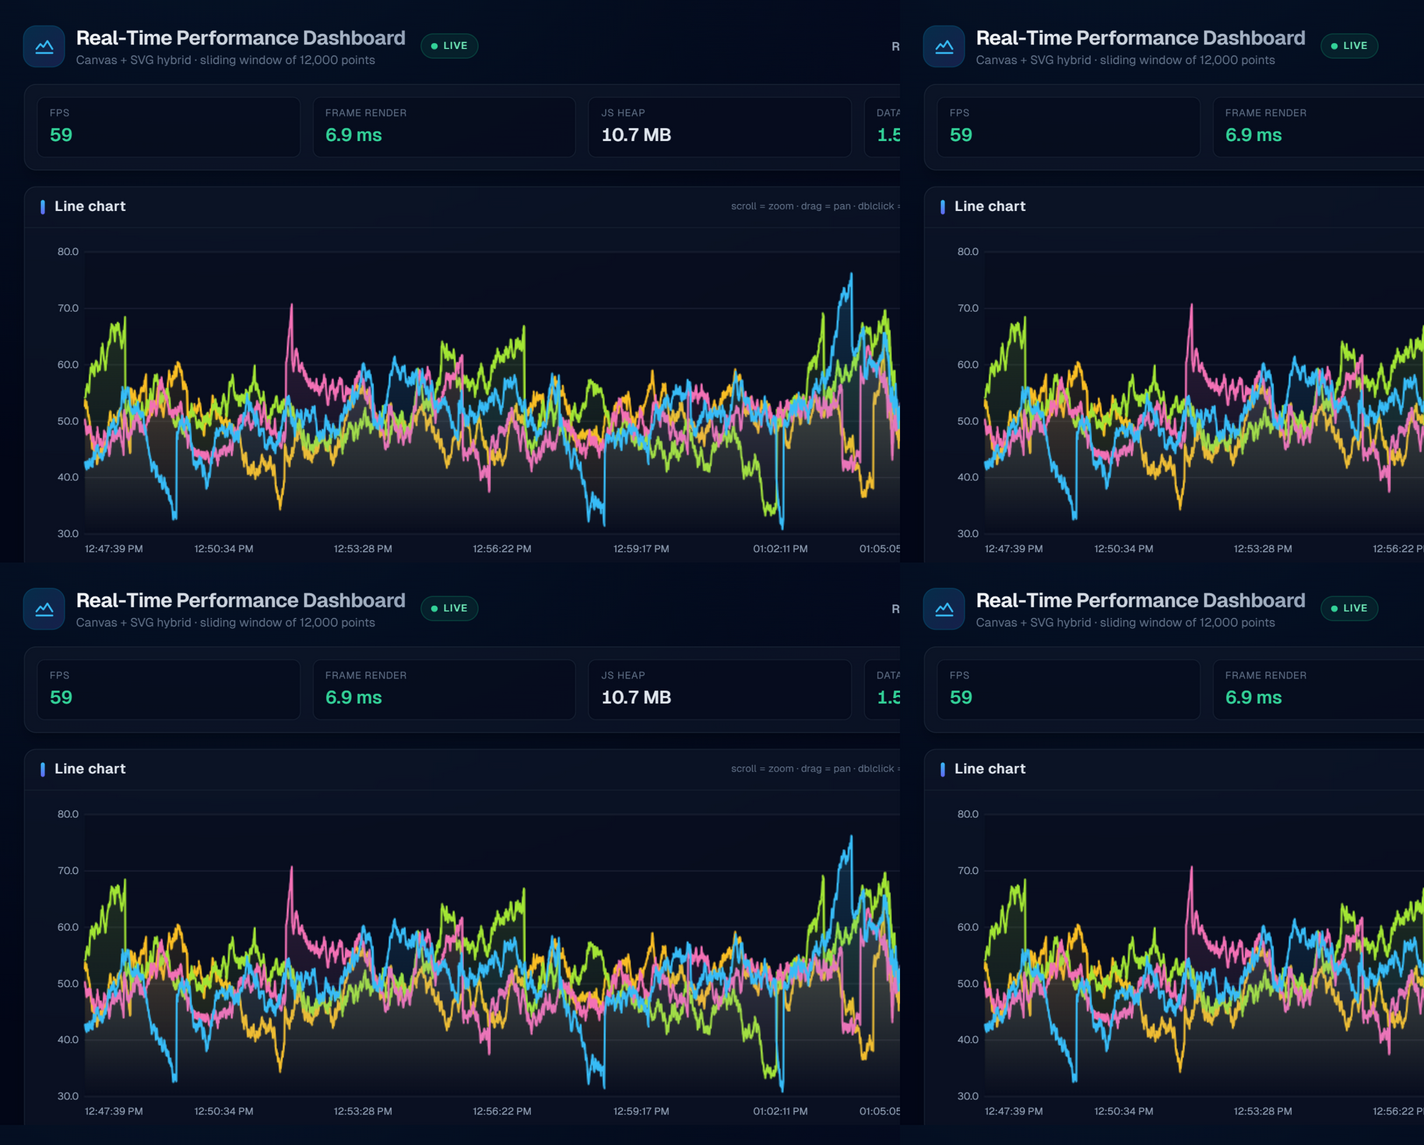
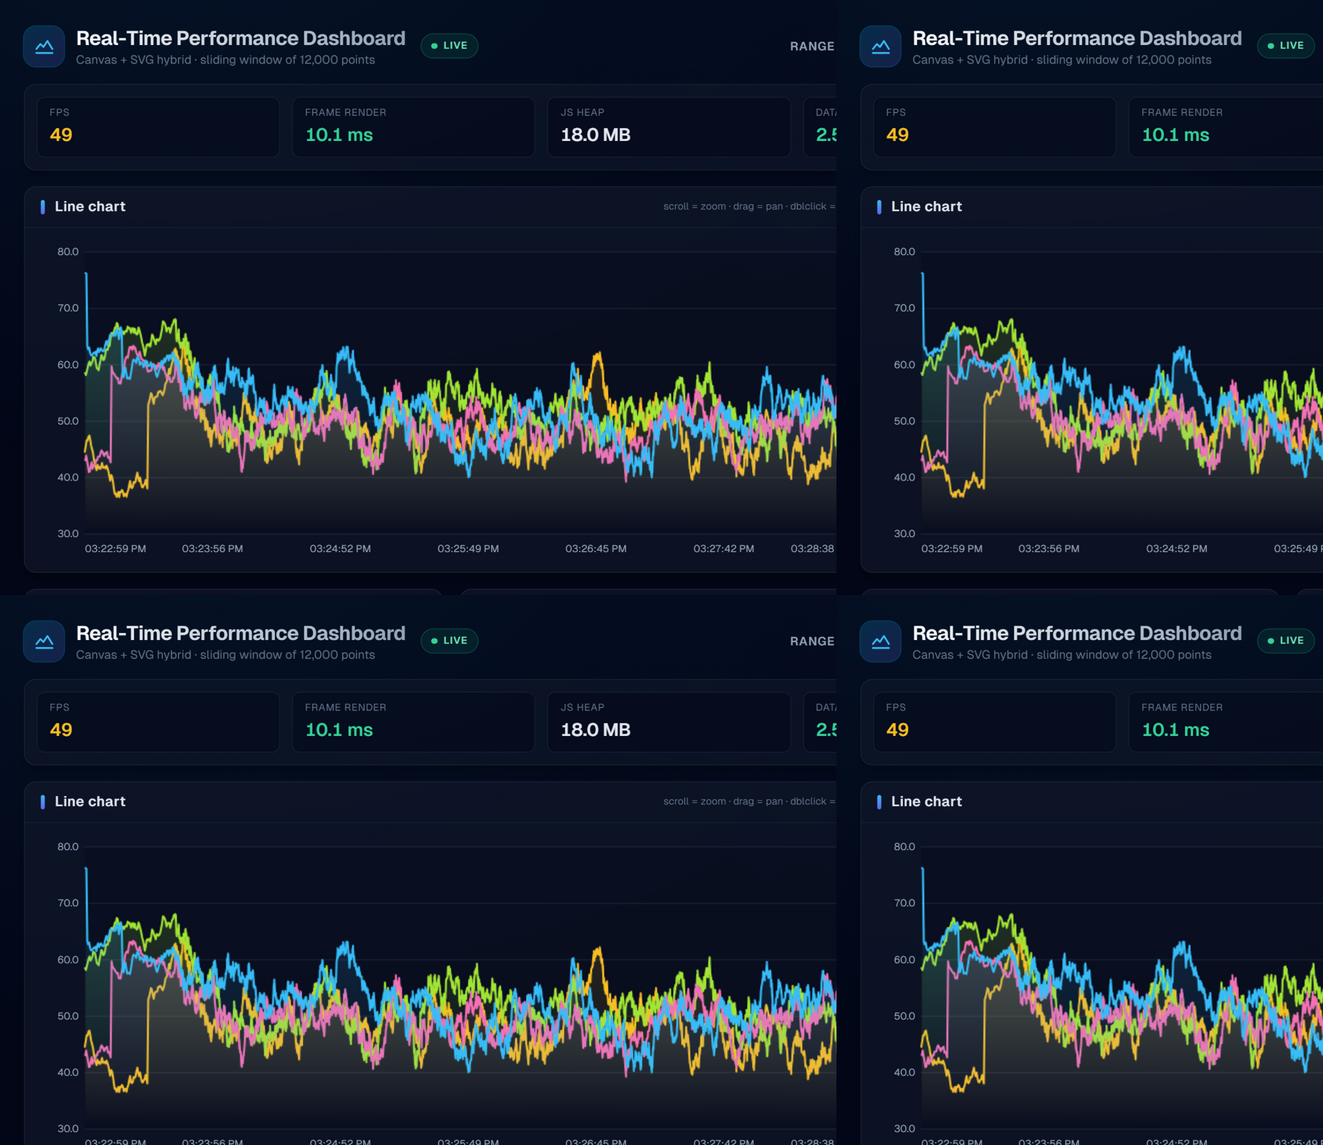
feat(ui): colorful multi-stop heatmap colormap
- intensity ramp: deep navy -> blue -> teal -> green -> yellow -> red
- canvas cells and SVG legend share the same stop table so they stay in sync
- perf fixes from the FPS investigation: drop backdrop-blur and the 60fps
  badge ping animation (main-thread repaint killers on non-GPU machines),
  guarantee a single rAF loop in scheduleFrame, merge the line chart's
  category-split and extent passes into one O(window) scan

diff --git a/components/charts/Heatmap.tsx b/components/charts/Heatmap.tsx
@@ -10,9 +10,40 @@ import { MARGIN } from './chartTheme';
 
 const BUCKETS = 80;
 
+/**
+ * Multi-stop color ramp for value density (low -> high):
+ * deep navy -> blue -> teal -> green -> yellow -> red.
+ * Stops are shared by the canvas cells and the SVG legend.
+ */
+const HEAT_STOPS: Array<[number, number, number, number]> = [
+  [0.0, 11, 26, 58],
+  [0.2, 30, 100, 220],
+  [0.4, 0, 210, 195],
+  [0.6, 110, 230, 90],
+  [0.8, 255, 200, 70],
+  [1.0, 255, 80, 80],
+];
+
+function heatColor(t: number): string {
+  const x = Math.min(1, Math.max(0, t));
+  for (let i = 1; i < HEAT_STOPS.length; i++) {
+    const [t1, r1, g1, b1] = HEAT_STOPS[i];
+    const [t0, r0, g0, b0] = HEAT_STOPS[i - 1];
+    if (x <= t1) {
+      const f = (x - t0) / (t1 - t0);
+      const r = Math.round(r0 + f * (r1 - r0));
+      const g = Math.round(g0 + f * (g1 - g0));
+      const b = Math.round(b0 + f * (b1 - b0));
+      return `rgb(${r},${g},${b})`;
+    }
+  }
+  return 'rgb(255,80,80)';
+}
+
 /** Value density heat: time (x) × category (y), intensity = avg value. */
 export default function Heatmap() {
   const { rangeData } = useDataWindow();
+
   const [containerRef, size] = useElementSize<HTMLDivElement>();
 
   const grid = useMemo(() => {
@@ -42,30 +73,23 @@ export default function Heatmap() {
     return m;
   }, [grid]);
 
-  const { canvasRef } = useChartRenderer(
-    ({ ctx, width, height }) => {
-      const left = MARGIN.left;
-      const right = width - MARGIN.right;
-      const top = MARGIN.top;
-      const bottom = height - MARGIN.bottom;
-      const cellW = (right - left) / BUCKETS;
-      const cellH = (bottom - top) / CATEGORIES.length;
+  const { canvasRef } = useChartRenderer(({ ctx, width, height }) => {
+    const left = MARGIN.left;
+    const right = width - MARGIN.right;
+    const top = MARGIN.top;
+    const bottom = height - MARGIN.bottom;
+    const cellW = (right - left) / BUCKETS;
+    const cellH = (bottom - top) / CATEGORIES.length;
 
-      for (let b = 0; b < BUCKETS; b++) {
-        for (let c = 0; c < CATEGORIES.length; c++) {
-          const cell = grid.cells[b][c];
-          const intensity = cell.n === 0 ? 0 : cell.v / cell.n / maxAvg;
-          // dark slate -> cyan ramp
-          const r = Math.round(15 + intensity * 56);
-          const g = Math.round(23 + intensity * 189);
-          const bl = Math.round(42 + intensity * 248);
-          ctx.fillStyle = `rgb(${r},${g},${bl})`;
-          ctx.fillRect(left + b * cellW, top + c * cellH, Math.ceil(cellW), Math.ceil(cellH) - 1);
-        }
+    for (let b = 0; b < BUCKETS; b++) {
+      for (let c = 0; c < CATEGORIES.length; c++) {
+        const cell = grid.cells[b]?.[c];
+        const intensity = !cell || cell.n === 0 ? 0 : cell.v / cell.n / maxAvg;
+        ctx.fillStyle = heatColor(intensity);
+        ctx.fillRect(left + b * cellW, top + c * cellH, Math.ceil(cellW), Math.ceil(cellH) - 1);
       }
-    },
-
-  );
+    }
+  });
 
   const plotH = Math.max(1, size.height - MARGIN.top - MARGIN.bottom);
   const rowH = plotH / CATEGORIES.length;
@@ -91,8 +115,9 @@ export default function Heatmap() {
           <>
             <defs>
               <linearGradient id="heatLegend" x1="0" y1="0" x2="1" y2="0">
-                <stop offset="0%" stopColor="rgb(15,23,42)" />
-                <stop offset="100%" stopColor="rgb(71,212,255)" />
+                {HEAT_STOPS.map(([t, r, g, b]) => (
+                  <stop key={t} offset={`${t * 100}%`} stopColor={`rgb(${r},${g},${b})`} />
+                ))}
               </linearGradient>
             </defs>
             {/* intensity legend */}

diff --git a/components/DashboardShell.tsx b/components/DashboardShell.tsx
@@ -15,7 +15,7 @@ import PerformanceMonitor from '@/components/ui/PerformanceMonitor';
 
 function Panel({ title, hint, children }: { title: string; hint?: string; children: React.ReactNode }) {
   return (
-    <section className="flex min-h-0 flex-col overflow-hidden rounded-xl border border-slate-800/80 bg-slate-900/60 shadow-lg shadow-black/20 backdrop-blur transition-colors hover:border-slate-700/80">
+    <section className="flex min-h-0 flex-col overflow-hidden rounded-xl border border-slate-800/80 bg-slate-900/70 shadow-lg shadow-black/20 transition-colors hover:border-slate-700/80">
       <header className="flex items-center gap-2.5 border-b border-slate-800/60 px-4 py-2.5">
         <span className="h-3.5 w-1 rounded-full bg-gradient-to-b from-sky-400 to-indigo-500" aria-hidden />
         <h2 className="text-sm font-semibold tracking-wide text-slate-200">{title}</h2>
@@ -75,10 +75,9 @@ export default function DashboardShell() {
                     : 'bg-amber-500/10 text-amber-300 ring-amber-500/30'
               }`}
             >
-              <span className="relative flex h-1.5 w-1.5">
-                {running && !stress && <span className="absolute inline-flex h-full w-full animate-ping rounded-full bg-emerald-400 opacity-60" />}
-                <span className={`relative inline-flex h-1.5 w-1.5 rounded-full ${stress ? 'bg-rose-400' : running ? 'bg-emerald-400' : 'bg-amber-400'}`} />
-              </span>
+              <span
+                className={`inline-flex h-1.5 w-1.5 rounded-full ${stress ? 'bg-rose-400' : running ? 'bg-emerald-400' : 'bg-amber-400'}`}
+              />
               {stress ? 'stress' : running ? 'live' : 'paused'}
             </span>
           </div>

diff --git a/components/charts/LineChart.tsx b/components/charts/LineChart.tsx
@@ -24,33 +24,28 @@ export default function LineChart() {
     return [plotData[0].timestamp, plotData[plotData.length - 1].timestamp];
   }, [viewport, plotData]);
 
-  const dataByCategory = useMemo(() => {
+  // single O(window) pass per data tick: category split + value extents
+  const windowed = useMemo(() => {
     const i0 = Math.max(0, findIndexBefore(plotData, t0));
     const i1 = findIndexBefore(plotData, t1);
     const by = new Map<string, DataPoint[]>();
+    let min = Infinity;
+    let max = -Infinity;
     // index-bounded scan — no slice copy of the (possibly 100k-point) window
     for (let i = i0; i <= i1; i++) {
       const p = plotData[i];
       let arr = by.get(p.category);
       if (!arr) by.set(p.category, (arr = []));
       arr.push(p);
+      if (p.value < min) min = p.value;
+      if (p.value > max) max = p.value;
     }
-    return by;
+    return { by, min: min === Infinity ? 0 : min, max: max === Infinity ? 1 : max };
   }, [plotData, t0, t1]);
 
-  const [vMin, vMax] = useMemo(() => {
-    let min = Infinity;
-    let max = -Infinity;
-    for (const arr of dataByCategory.values()) {
-      for (const p of arr) {
-        if (p.value < min) min = p.value;
-        if (p.value > max) max = p.value;
-      }
-    }
-    return min === Infinity ? ([0, 1] as const) : ([min, max] as const);
-  }, [dataByCategory]);
+  const dataByCategory = windowed.by;
 
-  const yTicks = useMemo(() => niceTicks(vMin, vMax, 5), [vMin, vMax]);
+  const yTicks = useMemo(() => niceTicks(windowed.min, windowed.max, 5), [windowed]);
   const xTicks = useMemo(() => {
     const n = 6;
     return Array.from({ length: n + 1 }, (_, i) => t0 + ((t1 - t0) * i) / n);

diff --git a/lib/performanceUtils.ts b/lib/performanceUtils.ts
@@ -5,7 +5,7 @@
 type FrameCallback = (now: number) => void;
 
 const callbacks = new Set<FrameCallback>();
-let running = false;
+let rafPending = false;
 const frameTimes: number[] = [];
 let onFrame: ((fps: number, frameTime: number) => void) | null = null;
 
@@ -14,6 +14,7 @@ export function setFrameObserver(fn: ((fps: number, frameTime: number) => void) 
 }
 
 function loop(now: number) {
+  rafPending = false;
   const t0 = performance.now();
   for (const cb of callbacks) cb(now);
   const dt = performance.now() - t0;
@@ -23,14 +24,17 @@ function loop(now: number) {
   const fps = frameTimes.length > 1 ? (frameTimes.length - 1) : 0;
   onFrame?.(fps, dt);
 
-  if (callbacks.size > 0) requestAnimationFrame(loop);
-  else running = false;
+  // exactly one rAF in flight at any time, regardless of subscribe/unsubscribe races
+  if (callbacks.size > 0 && !rafPending) {
+    rafPending = true;
+    requestAnimationFrame(loop);
+  }
 }
 
 export function scheduleFrame(cb: FrameCallback): () => void {
   callbacks.add(cb);
-  if (!running && typeof window !== 'undefined') {
-    running = true;
+  if (!rafPending && typeof window !== 'undefined') {
+    rafPending = true;
     requestAnimationFrame(loop);
   }
   return () => {
